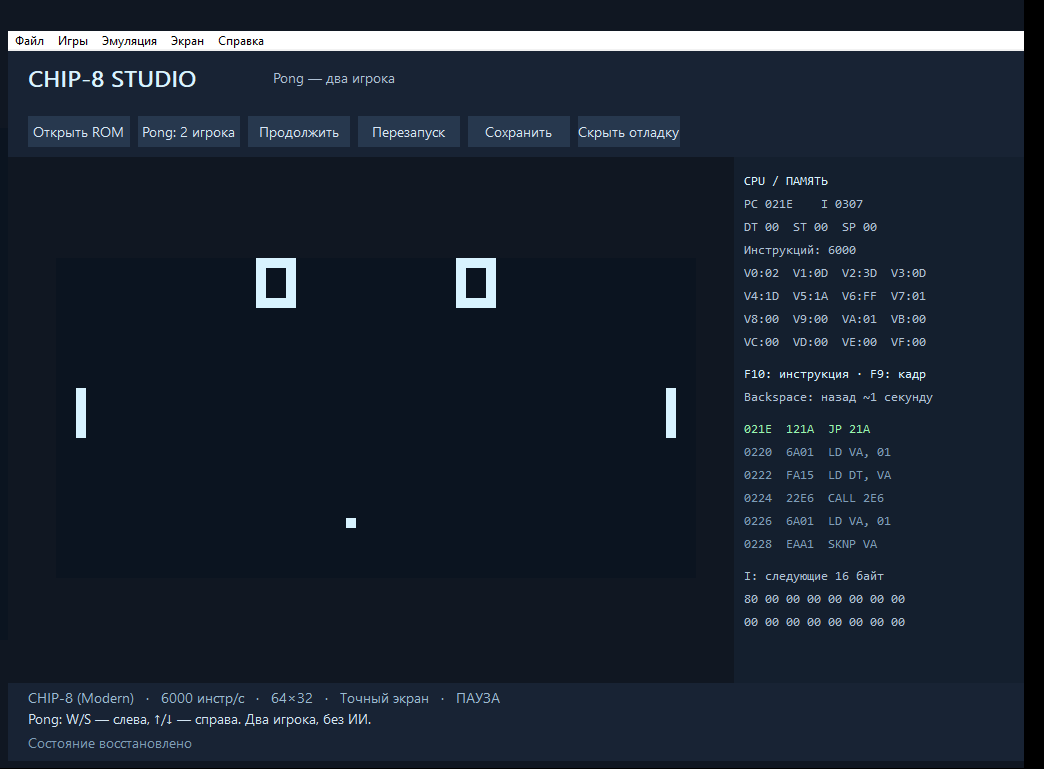
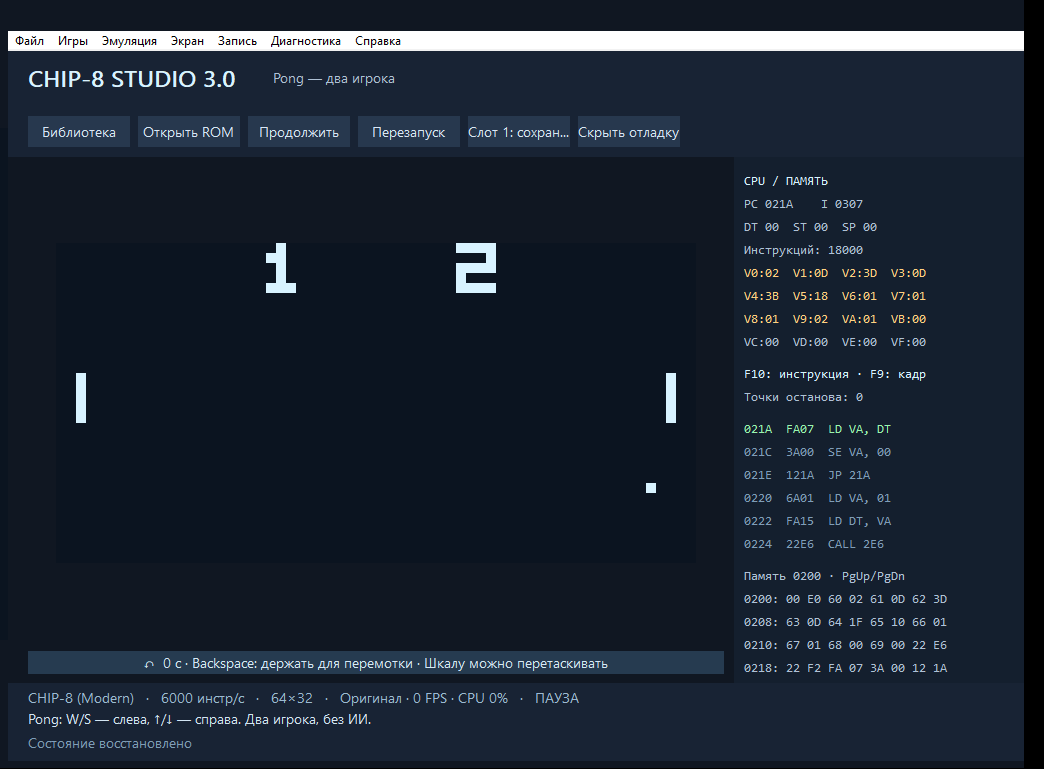
Correct MP4 orientation, improve library labels and show actual native Windows screenshots

diff --git a/src/WindowsMain.cpp b/src/WindowsMain.cpp
@@ -460,6 +460,20 @@ const chip8_catalog::Program* knownProgram(const std::wstring& sha) {
     for(const auto& p:chip8_catalog::Known)if(key==p.sha1)return &p;
     return nullptr;
 }
+std::wstring platformLabel(const char* id) {
+    const std::string name(id);
+    if(name=="chip8"||name=="originalChip8"||name=="modernChip8")return L"CHIP-8";
+    if(name=="schip"||name=="superchip"||name=="superchip1"||name=="superchipModern")return L"Super-CHIP";
+    if(name=="xochip")return L"XO-CHIP";
+    if(name=="chip48")return L"CHIP-48";
+    return wide(name);
+}
+std::wstring localDate(std::uint64_t seconds) {
+    if(!seconds||seconds>(~std::uint64_t{0}-116444736000000000ull)/10000000)return L"ещё не запускали";
+    ULARGE_INTEGER number{};number.QuadPart=seconds*10000000+116444736000000000ull;FILETIME utc{number.LowPart,number.HighPart},local{};SYSTEMTIME time{};
+    if(!FileTimeToLocalFileTime(&utc,&local)||!FileTimeToSystemTime(&local,&time))return L"—";
+    std::wostringstream out;out<<std::setfill(L'0')<<std::setw(2)<<time.wDay<<L'.'<<std::setw(2)<<time.wMonth<<L'.'<<time.wYear<<L' '<<std::setw(2)<<time.wHour<<L':'<<std::setw(2)<<time.wMinute;return out.str();
+}
 void libraryStatistics(LibraryGame& game) {
     const auto section=L"Library."+game.sha;
     game.favorite=GetPrivateProfileIntW(section.c_str(),L"Favorite",0,settings.c_str())!=0;
@@ -480,7 +494,7 @@ void initializeLibrary() {
         auto existing=std::find_if(library.begin(),library.end(),[&](const auto& game){return game.sha==sha;});
         if(existing!=library.end()){existing->cover=assetPath(p.cover);continue;}
         LibraryGame game;game.sha=sha;game.title=wide(p.title);game.authors=wide(p.authors);
-        game.description=wide(p.description);game.platform=wide(p.platform);
+        game.description=wide(p.description);game.platform=platformLabel(p.platform);
         game.path=assetPath(p.path);game.cover=assetPath(p.cover);game.metadata=&p;
         libraryStatistics(game);library.push_back(std::move(game));
     }
@@ -493,7 +507,7 @@ void initializeLibrary() {
         LibraryGame game;game.sha=sha;game.path=entry.path();game.metadata=knownProgram(sha);
         const auto section=L"Library."+sha;
         game.title=readSetting(section.c_str(),L"Title",entry.path().stem().c_str());
-        game.platform=game.metadata?wide(game.metadata->platform):L"Импорт";
+        game.platform=game.metadata?platformLabel(game.metadata->platform):L"Импорт";
         if(game.metadata){game.authors=wide(game.metadata->authors);game.description=wide(game.metadata->description);}
         libraryStatistics(game);library.push_back(std::move(game));
     }
@@ -525,7 +539,7 @@ bool importRom(const fs::path& path) {
     std::error_code ec;fs::create_directories(dataDir/L"roms",ec);
     const auto destination=dataDir/L"roms"/(sha+L".ch8");if(!writeAtomic(destination,bytes))return false;
     LibraryGame game;game.sha=sha;game.path=destination;game.title=path.stem().wstring();game.metadata=knownProgram(sha);
-    if(game.metadata){game.title=wide(game.metadata->title);game.authors=wide(game.metadata->authors);game.description=wide(game.metadata->description);game.platform=wide(game.metadata->platform);}
+    if(game.metadata){game.title=wide(game.metadata->title);game.authors=wide(game.metadata->authors);game.description=wide(game.metadata->description);game.platform=platformLabel(game.metadata->platform);}
     else {
         game.platform=L"Импорт";chip8::Chip8 fingerprint(chip8::Config::preset(chip8::Profile::XoChip));fingerprint.loadRom(bytes);
         const auto id=hex(fingerprint.romHash(),16);
@@ -1038,7 +1052,7 @@ void paint(HDC destination) {
         fill(dc,{0,0,w,ui(106)},0x182334);
         text(dc,L"CHIP-8 STUDIO 3.0",{ui(20),ui(9),ui(250),ui(44)},0xD8F3FF,titleFont);
         text(dc,romName,{ui(265),ui(12),w-ui(20),ui(42)},0xAFC1D5);
-        const std::array<std::wstring,6> labels{L"Библиотека",L"Открыть ROM",paused?L"Продолжить":L"Пауза",L"Перезапуск",L"Слот "+std::to_wstring(slot+1)+L": сохранить",debug?L"Скрыть отладку":L"Отладка"};
+        const std::array<std::wstring,6> labels{L"Библиотека",L"Открыть ROM",paused?L"Продолжить":L"Пауза",L"Перезапуск",L"Сохранить "+std::to_wstring(slot+1),debug?L"Скрыть отладку":L"Отладка"};
         for(int n=0;n<6;++n) {
             const auto rect=buttonRect(n); fill(dc,rect,0x27384E);
             text(dc,labels[n],rect,0xD8E7F5,nullptr,DT_CENTER|DT_SINGLELINE|DT_VCENTER|DT_END_ELLIPSIS);
@@ -1441,7 +1455,7 @@ LRESULT CALLBACK wndProc(HWND hwnd,UINT message,WPARAM wp,LPARAM lp) {
     case WM_CAPTURECHANGED:if(timelineDragging)finishRewind();if(virtualHeld>=0){virtualHeld=-1;updateKeys();}return 0;
     case WM_MOUSEWHEEL:if(showLibrary){libraryPage+=GET_WHEEL_DELTA_WPARAM(wp)<0?1:-1;redraw();}return 0;
     case WM_RBUTTONUP:if(showLibrary){POINT point{static_cast<short>(LOWORD(lp)),static_cast<short>(HIWORD(lp))};for(const auto& tile:libraryTiles)if(PtInRect(&tile.first,point)){const auto& game=library[tile.second];
-        const auto value=game.title+L"\n"+game.authors+L"\nПлатформа: "+game.platform+L"\nSHA-1: "+game.sha+L"\n\n"+game.description;
+        const auto value=game.title+L"\n"+game.authors+L"\nПлатформа: "+game.platform+L"\nПоследний запуск: "+localDate(game.last)+L"\nВремя игры: "+std::to_wstring((game.seconds+(game.sha==currentSha?playFrames/60:0))/60)+L" мин\nSHA-1: "+game.sha+L"\n\n"+game.description;
         modal=true;releaseInput();MessageBoxW(hwnd,value.c_str(),L"О программе / игре",MB_OK|MB_ICONINFORMATION);modal=false;clockReset=true;break;}}return 0;
     case WM_COMMAND:if(LOWORD(wp)==1900&&HIWORD(wp)==EN_CHANGE){const int length=GetWindowTextLengthW(searchEdit);libraryQuery.resize(static_cast<std::size_t>(length)+1);GetWindowTextW(searchEdit,libraryQuery.data(),length+1);libraryQuery.resize(length);rebuildLibrary();redraw();}else command(LOWORD(wp));return 0;
     case WM_DROPFILES: {

diff --git a/src/StudioMedia.hpp b/src/StudioMedia.hpp
@@ -140,11 +140,11 @@ public:
     }
     bool frame(const std::vector<std::uint32_t>& pixels,const std::array<std::int16_t,1600>& sound) {
         if(!active_||pixels.size()!=512u*256u)return false;
-        std::vector<std::uint32_t> bottomUp(pixels.size());
-        for(int y=0;y<256;++y)std::copy_n(pixels.data()+y*512,512,bottomUp.data()+(255-y)*512);
+        // Keep the PNG/GIF row order. Independent native decoding verifies it;
+        // reversing rows here produces an upside-down sink-writer recording.
         const LONGLONG time=static_cast<LONGLONG>(frames_)*10000000/30;
         const LONGLONG duration=static_cast<LONGLONG>(frames_+1)*10000000/30-time;
-        HRESULT hr=write(video_,bottomUp.data(),static_cast<DWORD>(bottomUp.size()*4),time,duration);
+        HRESULT hr=write(video_,pixels.data(),static_cast<DWORD>(pixels.size()*4),time,duration);
         if(SUCCEEDED(hr))hr=write(audio_,sound.data(),static_cast<DWORD>(sound.size()*2),time,duration);
         if(FAILED(hr)){error_=hr;return false;}++frames_;return true;
     }

diff --git a/README.ru.md b/README.ru.md
@@ -10,9 +10,9 @@
 
 **Переносимый эмулятор CHIP-8 для Windows с библиотекой игр, перемоткой и записью.** Скачайте ZIP, распакуйте весь архив и откройте **CHIP8.Emulator.exe**. Для готовой версии Visual Studio и отдельные DLL компилятора не нужны. Интерфейс приложения — на русском языке.
 
-<p align="center"><img src="docs/media/gameplay.gif" alt="Pong на двух игроков в ядре CHIP-8 Studio" width="800"></p>
+<p align="center"><img src="docs/media/library.png" alt="Настоящая библиотека CHIP-8 Studio 3.0 в Windows" width="1000"></p>
 
-*Настоящие кадры ядра эмулятора с автоматическим вводом для демонстрации ракеток. Здесь показан игровой экран; у приложения есть собственное окно и меню.*
+*Снимок настоящей Windows-сборки при проверке интерфейса. В библиотеке показаны оригинальные обложки и кадры ROM.*
 
 ## Начать играть
 

diff --git a/README.md b/README.md
@@ -10,9 +10,9 @@
 
 **A portable CHIP-8 emulator for Windows, with an offline game library, rewind and recording.** Download the ZIP, extract the entire archive and open **CHIP8.Emulator.exe**. Visual Studio and additional compiler DLLs are unnecessary for the release package. The current application interface is in Russian; this README and the player guide are available in English.
 
-<p align="center"><img src="docs/media/gameplay.gif" alt="Two-player Pong running in the CHIP-8 Studio core" width="800"></p>
+<p align="center"><img src="docs/media/library.png" alt="Native CHIP-8 Studio 3.0 offline game library" width="1000"></p>
 
-*Actual frames from the emulator core, with scripted paddle input. This preview shows the game display; the desktop application has its own window and menus.*
+*Captured from the native Windows build during its interface checks. The library includes original covers and actual ROM previews.*
 
 ## Start playing
 
